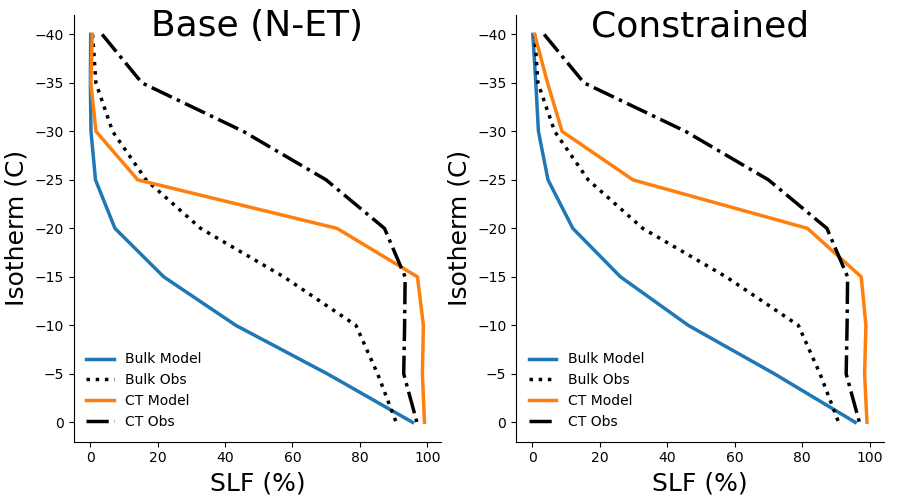
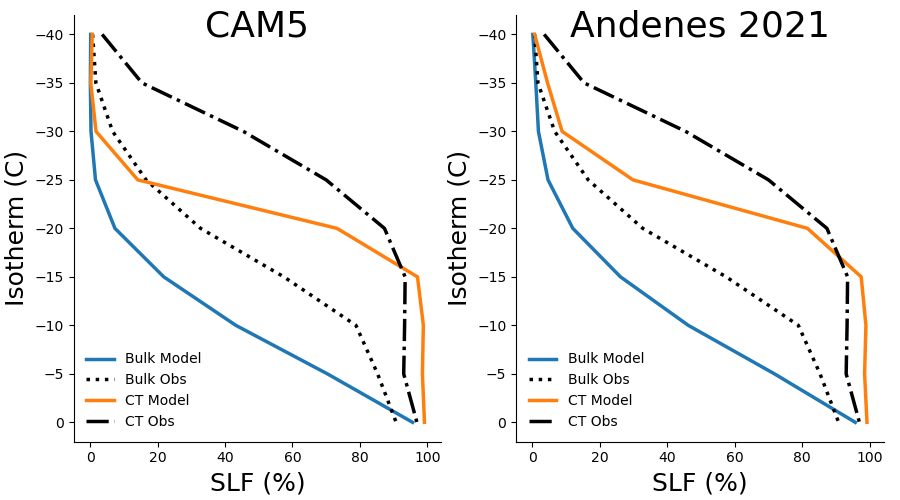
changed title in slf plot

Changed region(s): [[0.6222, 0.0, 0.9333, 0.09], [0.1556, 0.0, 0.4044, 0.09]]

diff --git a/NH_two_cases.py b/NH_two_cases.py
@@ -130,7 +130,7 @@ sns.despine()
 fig.tight_layout()
 
 
-titles = ['Base (N-ET)', 'Constrained']
+titles = ['CAM5', 'Andenes 2021']
 i = 0
 for ax in ax:
     ax.text(0.5, 0.95, titles[i], fontsize=26,
@@ -140,4 +140,4 @@ for ax in ax:
     ax.legend(frameon=False, loc='lower left')
     i += 1
 fig.savefig(
-    '/tos-project2/NS9600K/astridbg/NH_2_cases.png')
+    '/tos-project2/NS9600K/astridbg/master/NH_2_cases.png')
